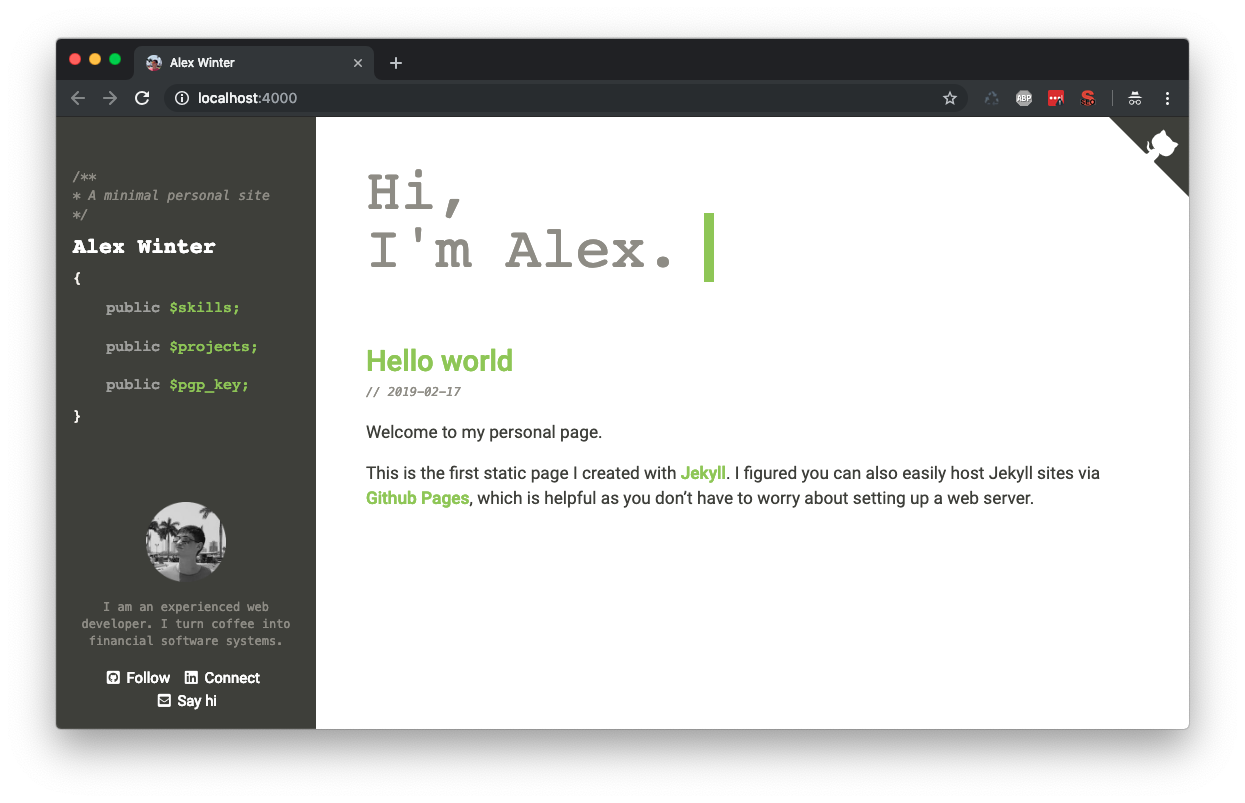
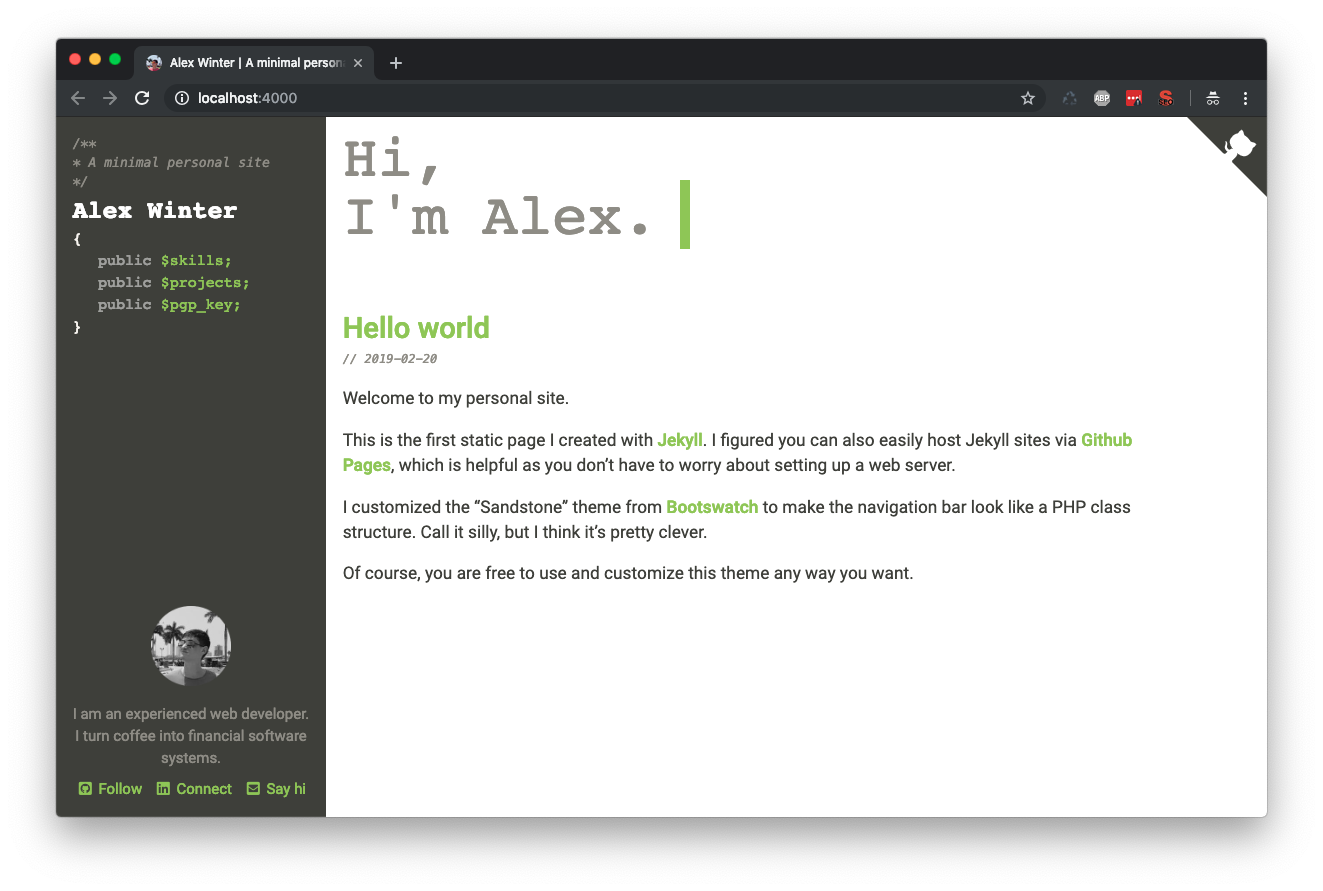
Various adjustments, remove project screenshots

Changed region(s): [[0.0305, 0.0311, 0.9767, 0.934], [0.0916, 0.467, 0.2137, 0.4981]]

diff --git a/001-skills.html b/001-skills.html
@@ -9,11 +9,11 @@ permalink:          /skills
 
     <p>
         I've always been drawn to the overlap between design and development.
-        I enjoy each aspect, although I've been focusing on backend development with
+        I enjoy each aspect, although my focus has been on PHP development with
         <a href="https://symfony.com/">Symfony</a> for a couple of years now.
     </p>
 
-    <h2 class="h3">Tech</h2>
+    <h2>Tech</h2>
     <ul class="list-inline">
         <li class="list-inline-item"><i class="fab fa-php fa-fw"></i> PHP</li>
         <li class="list-inline-item"><i class="fas fa-database fa-fw"></i> MySQL</li>
@@ -26,7 +26,7 @@ permalink:          /skills
         <li class="list-inline-item"><i class="fab fa-ethereum fa-fw"></i> Ethereum</li>
     </ul>
 
-    <h2 class="h3">Tools</h2>
+    <h2>Tools</h2>
     <ul class="list-inline">
         <li class="list-inline-item"><i class="fab fa-github fa-fw"></i> Github</li>
         <li class="list-inline-item"><i class="fab fa-bitbucket fa-fw"></i> Bitbucket</li>
@@ -40,7 +40,7 @@ permalink:          /skills
         <li class="list-inline-item"><i class="fab fa-slack fa-fw"></i> Slack</li>
     </ul>
 
-    <h2 class="h3">Frameworks & Libraries</h2>
+    <h2>Frameworks & Libraries</h2>
     <ul class="list-inline">
         <li class="list-inline-item"><i class="fas fa-check fa-fw"></i> Symfony</li>
         <li class="list-inline-item"><i class="fas fa-check fa-fw"></i> Doctrine</li>
@@ -53,7 +53,7 @@ permalink:          /skills
         <li class="list-inline-item"><i class="fas fa-check fa-fw"></i> Jekyll</li>
     </ul>
 
-    <h2 class="h3">Languages</h2>
+    <h2>Languages</h2>
     <ul id="languages" class="list-inline">
         <li class="list-inline-item"><img src="{{ "/img/flags/de.png" }}" class="flag mb-0 mr-1" alt="German">  German <small>[native]</small></li>
         <li class="list-inline-item"><img src="{{ "/img/flags/us.png" }}" class="flag mb-0 mr-1" alt="English"> English <small>[fluent]</small></li>

diff --git a/_includes/navigation.html b/_includes/navigation.html
@@ -1,11 +1,11 @@
-<nav class="navbar navbar-expand-md navbar-dark bg-primary fixed-left pt-md-5">
+<nav class="navbar navbar-expand-md navbar-dark bg-primary fixed-left pt-md-3">
 
     <code class="text-muted font-italic d-none d-md-block">
         /**<br>
         * {{ site.description }}<br>
         */
     </code>
-    <a class="navbar-brand hvr-icon-grow" href="{{ "/"|relative_url }}">
+    <a class="navbar-brand py-md-0" href="{{ "/"|relative_url }}">
         <strong>{{ site.title }}</strong>
     </a>
 
@@ -19,12 +19,14 @@
             {% for item in site.pages %}
                 {% if item.title %}
                     {% unless item.exclude_from_nav %}
-                        <li class="nav-item hvr-forward pl-md-4 {% if item.url == page.url %}active{% endif %}">
-                            <a class="nav-link" href="{{ item.url }}">
-                                <span class="d-none d-md-inline-block">public</span>
-                                <span class="text-highlight">
-                                    <span class="d-none d-md-inline">$</span>{{ item.title|downcase|replace:' ','_' }}<span class="d-none d-md-inline">;</span>
-                                </span>
+                        <li class="nav-item hvr-forward pl-md-3 {% if item.url == page.url %}active{% endif %}">
+                            <a class="nav-link py-md-0" href="{{ item.url }}">
+                                <div>
+                                    <span class="d-none d-md-inline-block">public</span>
+                                    <span class="text-highlight">
+                                        <span class="d-none d-md-inline">$</span>{{ item.title|downcase|replace:' ','_' }}<span class="d-none d-md-inline">;</span>
+                                    </span>
+                                </div>
                             </a>
                         </li>
                     {% endunless %}

diff --git a/_includes/head.html b/_includes/head.html
@@ -5,7 +5,7 @@
     <meta name="viewport" content="width=device-width, initial-scale=1.0, maximum-scale=1">
     <meta name="generator" content="Jekyll">
 
-    <title>{% if page.title %}{{ page.title }} | {{ site.title }}{% else %}{{ site.title }}{% endif %}</title>
+    <title>{% if page.title %}{{ page.title }} | {{ site.title }}{% else %}{{ site.title }} | {{ site.description }}{% endif %}</title>
     <meta name="description" content="{% if page.description %}{{ page.description }}{% else %}{{ site.description }}{% endif %}">
     <meta name="author" content="{{ site.author.name }}">
 
@@ -18,7 +18,7 @@
     <link rel="canonical" href="{{ site.url }}{{ page.url|replace:'index.html',''}}">
 
     <link rel="stylesheet" href="{{ "/assets/css/main.css"|relative_url }}">
-    <link rel="icon" href="{{ "/assets/img/alex.png"|relative_url }}">
+    <link rel="icon" href="{{ "/assets/img/author.png"|relative_url }}">
     <link rel="stylesheet" href="https://use.fontawesome.com/releases/v5.7.2/css/all.css" integrity="sha384-fnmOCqbTlWIlj8LyTjo7mOUStjsKC4pOpQbqyi7RrhN7udi9RwhKkMHpvLbHG9Sr" crossorigin="anonymous">
 
     <script src="{{'/assets/js/jquery.js'|relative_url}}"></script>

diff --git a/_includes/vcard.html b/_includes/vcard.html
@@ -1,13 +1,13 @@
 <div>
     <a href="{{ "/"|relative_url }}" title="{{ site.title }}">
-        <img src="{{ "/assets/img/alex.png"|relative_url }}" height="80" class="mb-3 d-inline-block hvr-rotate" alt="{{ site.author.name }}">
+        <img src="{{ "/assets/img/author.png"|relative_url }}" height="80" class="mb-3 d-inline-block hvr-rotate" alt="{{ site.author.name }}">
     </a>
 </div>
 
-<code class="small mb-3">
+<p class="mb-2">
     I am an experienced web developer.
-    I turn coffee into financial software systems.<br>
-</code>
+    I turn coffee into financial software systems.
+</p>
 
 <ul class="list-inline mb-0">
     {% if site.social.github %}

diff --git a/_layouts/default.html b/_layouts/default.html
@@ -8,7 +8,8 @@
 {% if site.github_url %}{% include github-corner.html %}{% endif %}
 
 <main>
-    <div id="content" class="container-fluid float-left mt-0 mt-md-5 px-md-5">
+    <div id="content" class="container-fluid float-left mt-0 mt-md-3 px-md-3">
+
         {% if page.title %}
             <h1 class="font-weight-bold">{{ page.title }}</h1>
         {% endif %}
@@ -16,6 +17,9 @@
             <p><code class="text-muted font-italic">// {{ page.description }}</code></p>
         {% endif %}
         {{ content }}
+
+        {% include footer.html %}
+
     </div>
 </main>
 

diff --git a/_sass/sidebar.scss b/_sass/sidebar.scss
@@ -1,4 +1,4 @@
-$width: 260px;
+$width: 270px;
 
 body {
   padding-top: 90px;
@@ -36,11 +36,8 @@ body {
     position: absolute;
     bottom: 0;
     left: 0;
-    code {
+    p {
       color: $text-muted;
-    }
-    a {
-      color: $white;
     }
     img {
       filter: grayscale(100%);
@@ -60,7 +57,7 @@ body {
     align-items: flex-start;
     font-size: 0.9rem;
     .navbar-brand {
-      font-size: 1.3rem;
+      font-size: 1.5rem;
     }
   }
   .navbar.fixed-left .navbar-collapse {

diff --git a/index.html b/index.html
@@ -19,7 +19,7 @@ layout: default
             <time datetime="{{ post.date|date_to_xmlschema }}" class="small">
                 <code class="text-muted font-italic">// {{ post.date|date:"%Y-%m-%d" }}</code>
             </time>
-            <p>{{ post.content|truncatewords:50 }}</p>
+            <p>{{ post.content }}</p>
         </div>
     {% endfor %}
 

diff --git a/_includes/footer.html b/_includes/footer.html
@@ -1,0 +1,4 @@
+<footer id="footer" class="d-block d-md-none mt-5 text-muted">
+    <hr class="my-4">
+    {% include vcard.html %}
+</footer>

diff --git a/002-projects.md b/002-projects.md
@@ -13,51 +13,36 @@ This is a collection of my previous work. It's probably not complete but I will 
 
 ## Web applications
 
-### [BitcoinVN](https://bitcoinvn.io/en)
-[![BitcoinVN](/assets/img/projects/bitcoinvn.jpeg)](https://bitcoinvn.io/en)
-**First Bitcoin exchange in Vietnam**, launched back in 2014.
-Has quite a remarkable international reputation.
-I added support for several other cryptocurrencies over the years.
+* ### [BitcoinVN](https://bitcoinvn.io/en)
 
-Currently supported digital assets:
-* Bitcoin (BTC)
-* Ethereum (ETH)
-* Bitcoin Cash (BCH)
-* Litecoin (LTC)
-* Dash (DASH)
-
-[BitcoinVN](https://bitcoinvn.io/en) helped **thousands of users** securely and reliably exchange **millions of Dollars** worth of crypto.
-
----
+    BitcoinVN helped **thousands of users** securely and reliably exchange **millions of Dollars** worth of cryptocurrency.
     
-### [Berlitz Europe](https://www.berlitz.at)
-[![Berlitz Europe](/assets/img/projects/berlitz.jpeg)](https://www.berlitz.at)
-As part of an agile development team at [LifeStyle Webconsulting](https://www.life-style.de) I built e-commerce and content management solutions for Berlitz, the leading international language training and leadership company.
+    **First Bitcoin exchange in Vietnam**, launched back in 2014. Has quite a remarkable international reputation.
+    I added support for several other digital assets over the years.
 
-We extended and maintained multiple Berlitz online stores and informational sites targeting various European countries. 
-
----
-
-### [Ginero](https://ginero.io)
-[![Ginero](/assets/img/projects/ginero.jpeg)](https://ginero.io)
-Fully [Symfony](https://symfony.com) based peer-to-peer **cryptocurrency marketplace** with built-in escrow mechanism and reputation system.
-
-Currently working with partners in Greece to launch white-label version in the European market. 
-  
----
+    The exchange currently supports BTC, ETH, BCH, LTC and DASH.
     
-### [Cash2VN](https://www.cash2vn.com)
-[![Cash2VN](/assets/img/projects/cash2vn.jpeg)](https://www.cash2vn.com)
-A remittance solution based on Bitcoin.
-[Cash2VN](https://www.cash2vn.com) allows you to send money to anyone's bank account in Vietnam from anywhere in the world very quickly leveraging the power of cryptocurrencies.
+* ### [Berlitz Europe](https://www.berlitz.at)
+    As part of an agile development team at [LifeStyle Webconsulting](https://www.life-style.de) I built e-commerce and content management solutions for Berlitz, the leading international language training and leadership company.
+
+    We extended and maintained multiple Berlitz online stores and informational sites targeting various European countries. 
+
+* ### [Ginero](https://ginero.io)
+    Fully Symfony based peer-to-peer **cryptocurrency marketplace** with built-in escrow mechanism and reputation system.
+
+    Currently working with partners in Greece to launch white-label version in the European market. 
+    
+* ### [Cash2VN](https://www.cash2vn.com)
+    A remittance solution based on Bitcoin.
+    Cash2VN allows you to send money to anyone's bank account in Vietnam from anywhere in the world very quickly leveraging the power of cryptocurrencies.
     
 ## Symfony bundles
 
-### [NewsBundle](https://packagist.org/packages/sonofliberty/news-bundle)
-A simple Symfony bundle for blogging / publishing purposes. It's a work in progress.
+* ### [NewsBundle](https://packagist.org/packages/sonofliberty/news-bundle)
+    A simple Symfony bundle for blogging / publishing purposes. It's a work in progress.
     
 ## Libraries
 
-### [21bitcoinfees-php](https://packagist.org/packages/bitcoinvietnam/21bitcoinfees-php)
-A PHP library to interact with the [bitcoinfees.21.co](https://bitcoinfees.earn.com/) API.
-Used to determine optimal transaction fees to be paid to the miners in the Bitcoin network.
+* ### [21bitcoinfees-php](https://packagist.org/packages/bitcoinvietnam/21bitcoinfees-php)
+    A PHP library to interact with the [bitcoinfees.21.co](https://bitcoinfees.earn.com/) API.
+    Used to determine optimal transaction fees to be paid to the miners in the Bitcoin network.

diff --git a/_posts/2019-02-17-hello-world.md b/_posts/2019-02-17-hello-world.md
@@ -1,10 +1,16 @@
 ---
 layout:     post
 title:      Hello world
-date:       2019-02-17 12:00:00 +0700
+date:       2019-02-20 20:00:00 +0700
 ---
 
-Welcome to my personal page. 
+Welcome to my personal site. 
 
 This is the first static page I created with [Jekyll](https://jekyllrb.com/).
-I figured you can also easily host Jekyll sites via [Github Pages](https://pages.github.com/), which is helpful as you don't have to worry about setting up a web server.
+I figured you can also easily host Jekyll sites via [Github Pages](https://pages.github.com/), 
+which is helpful as you don't have to worry about setting up a web server.
+
+I customized the "Sandstone" theme from [Bootswatch](https://github.com/thomaspark/bootswatch) to make the navigation bar
+look like a PHP class structure. Call it silly, but I think it's pretty clever.
+
+Of course, you are free to use and customize this theme any way you want.

diff --git a/readme.md b/readme.md
@@ -1,5 +1,7 @@
 ## About
-This is my [private website](https://alexwinter.me) based on [Jekyll](https://github.com/jekyll/jekyll) and the "Sandstone" theme from [Bootswatch](https://github.com/thomaspark/bootswatch).
+This is my [private website](https://alexwinter.me) 
+based on [Jekyll](https://github.com/jekyll/jekyll) 
+and the "Sandstone" theme from [Bootswatch](https://github.com/thomaspark/bootswatch).
 
 ## Screenshot
 ![Screenshot](screenshot.png)
